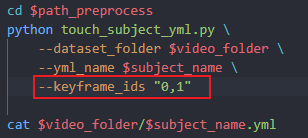
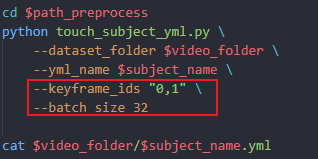
完善配置文件

diff --git a/preprocess/touch_subject_yml.py b/preprocess/touch_subject_yml.py
@@ -10,10 +10,13 @@ if __name__ == '__main__':
     parser.add_argument("--yml_name", type=str, default="config")
     parser.add_argument("--keyframe_ids", type=str, default="1,2")
     parser.add_argument("--begin_frames", type=int, default=0)
+    parser.add_argument("--batch_size", type=int, default=64)
     args = parser.parse_args()
     dataset_folder = args.dataset_folder
     yml_file_path = os.path.join(dataset_folder, f'{args.yml_name}.yml')
     bbox_file = os.path.join(dataset_folder, "box_bound.json")
+    
+    # crop_img = False
     if os.path.exists(bbox_file):
         # get image size
         with open(bbox_file) as f:
@@ -23,6 +26,7 @@ if __name__ == '__main__':
         images_path = sorted(glob.glob(os.path.join(dataset_folder, 'source', '*.png')))
         imag = Image.open(images_path[0])
         image_size = [imag.size[1], imag.size[0]]
+        # crop_img = True
     
     kf = [int(s) for s in args.keyframe_ids.split(',')]
     
@@ -36,6 +40,7 @@ if __name__ == '__main__':
         "keyframes": kf,
         "crop_image": False,
         "image_size": image_size,
+        "batch_size": args.batch_size,
     }
     
     with open(yml_file_path, 'w') as fp:

diff --git a/README.md b/README.md
@@ -29,7 +29,9 @@ bash fitting_flame.sh
 
 ![alt text](image.png)
 
-- 生成 tracker 需要的 .yml 配置文件，需要选择中性表情的关键帧，修改下面的 `--keyframe_ids`，多张关键帧编号使用逗号`,`隔开。
+- 生成 tracker 需要的 .yml 配置文件。
+    - 选择中性表情的关键帧，修改`keyframe_ids`，多张关键帧编号使用逗号`,`隔开。
+    - 设置 `batch_size`，合理利用显存。
 
 ![alt text](image-2.png)
 
